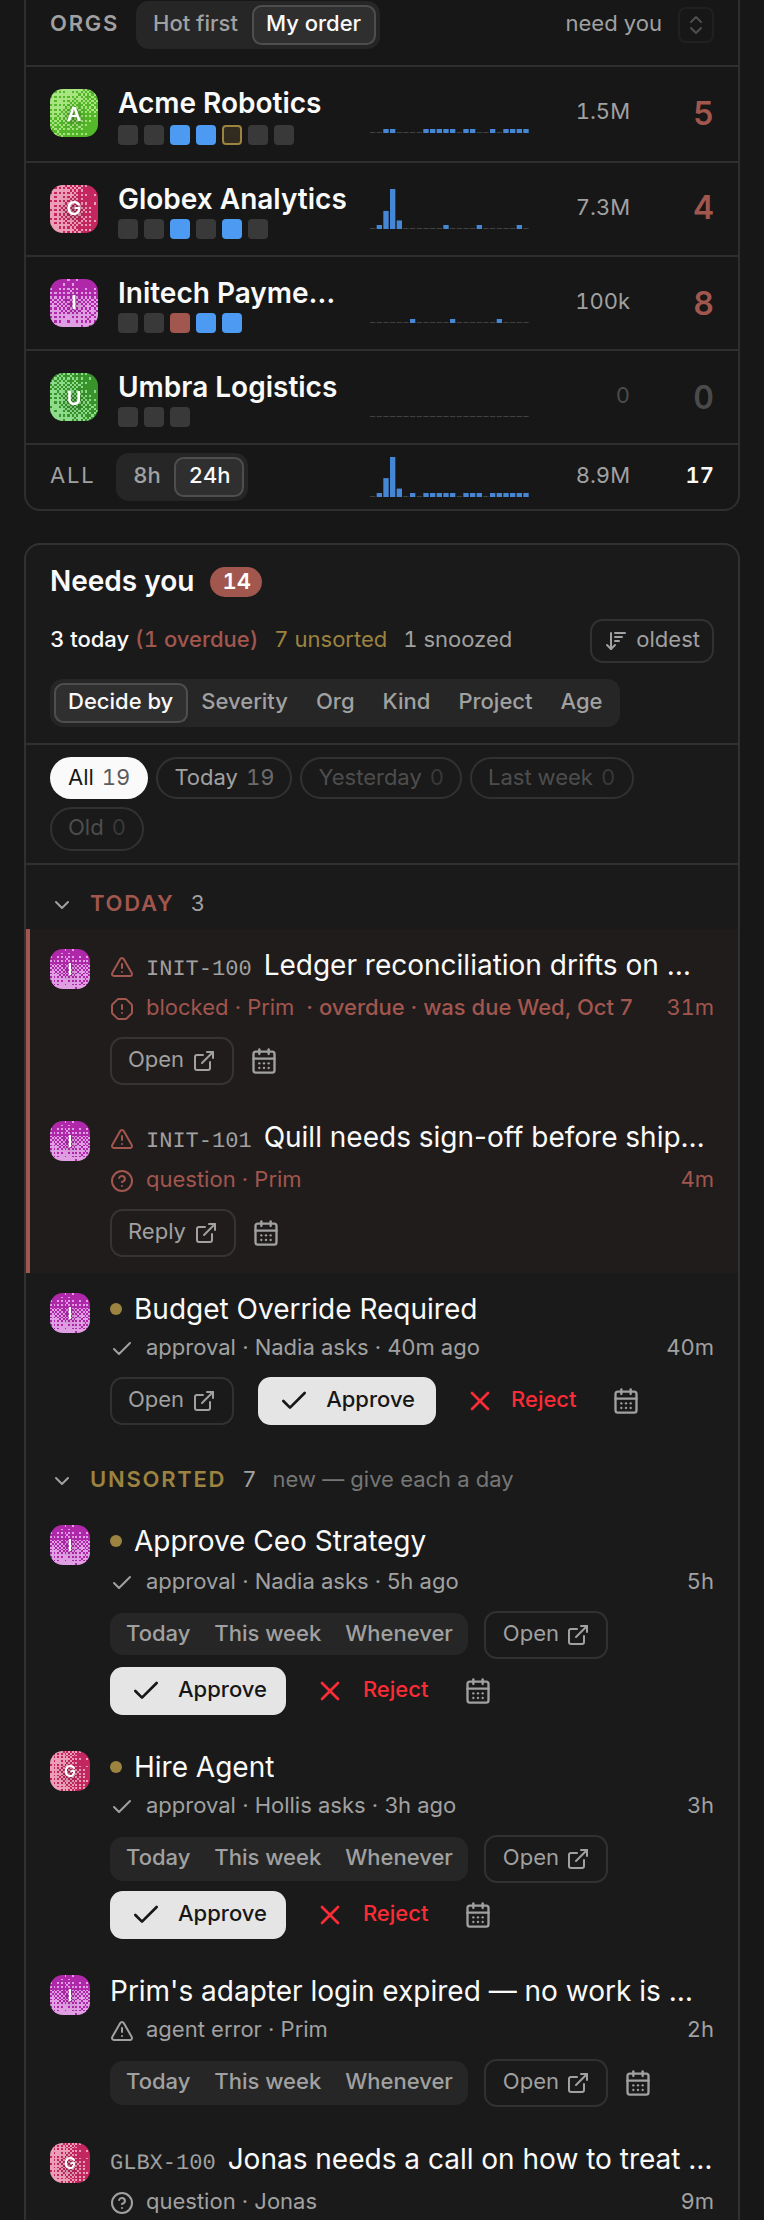
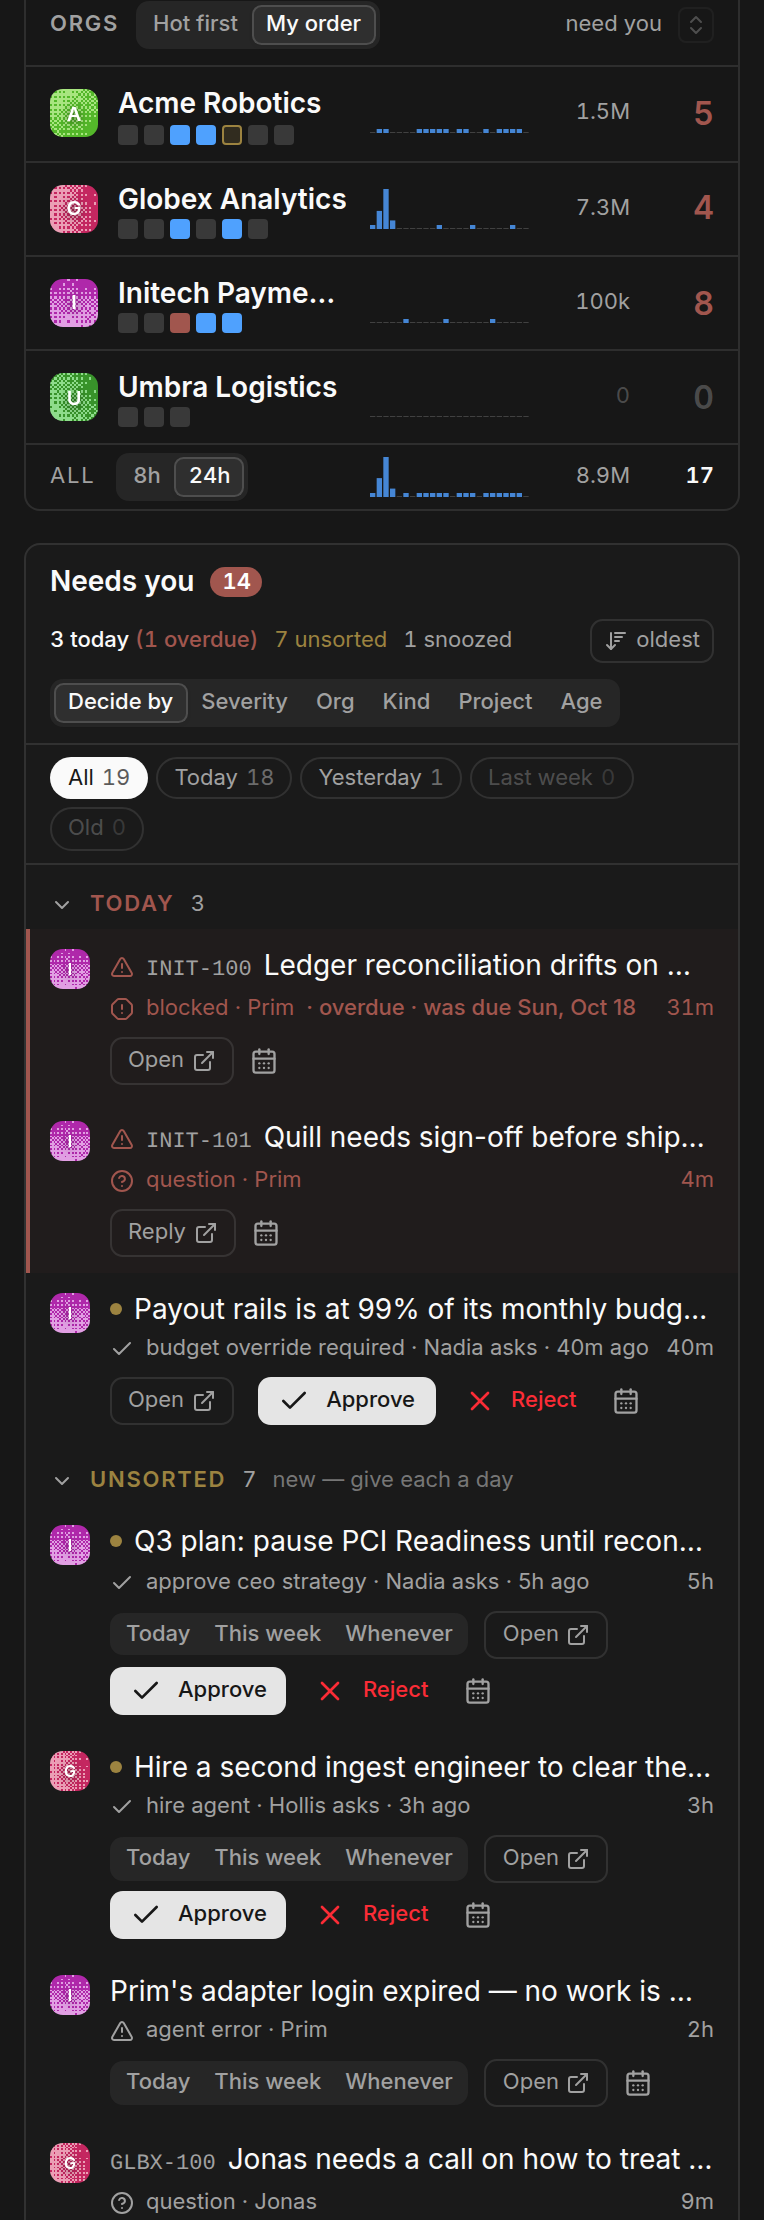
docs(readme): cover hiding orgs, paused orgs, task-titled approvals and the new question cards
README: the Orgs section now says archived and paused orgs are left out and
that an active org can be hidden from its hover card (#93).

docs/queue.md: approval rows are titled by their task with the type below
(#94); question cards show typed-answer boxes directly, tuck the note behind
"Add a note", and hold Send until the answers would be accepted (#92).

Regenerated in demo mode with scripts/capture-screenshots.mjs against a
throwaway local_trusted instance: hero, needs-you, tickler-page, phone,
company-detail, queue-by-decide, queue-triage-menu, queue-by-severity,
queue-by-company, queue-by-project, queue-actions.

Refs PLI-317

diff --git a/docs/queue.md b/docs/queue.md
@@ -119,9 +119,15 @@ company:
 
 <img src="screenshots/queue-question.png" alt="An agent's multiple-choice question, answered in place with an optional note" width="400">
 
-- **Approve / Reject** on an approval.
+- **Approve / Reject** on an approval. The row is titled by the task the
+  approval belongs to (or the request's own words, or "Hire <name>"), with the
+  approval's type on the small line underneath, so two pending approvals never
+  look alike.
 - **Answer** on a question, **Choose** on a confirmation — including structured
-  `ask_user_questions` responses, with each question's options in place.
+  `ask_user_questions` responses, with each question's options in place. A
+  question that wants typed text shows its box straight away, the optional note
+  sits behind **Add a note**, and **Send** stays off until the answers would be
+  accepted — the line beside it says which question still needs one.
 - **Open ↗** on anything, which takes you to the item in its own company.
 
 Clicking the excerpt under a headline expands the full prompt in place. For

diff --git a/README.md b/README.md
@@ -68,7 +68,9 @@ project or age — by project is how you find the one project quietly generating
 last 8 or 24 hours, and how much is waiting on you. Hover a name for everything else; hover a capacity square for which agent it is
 and what they are doing right now. Beneath it the rail stacks Recent, Portfolio and Routines, so
 the whole column is one scan: who's working, what just moved, what's stuck. Orgs and Recent each
-have an **Expand** toggle for when the short list isn't enough.
+have an **Expand** toggle for when the short list isn't enough. Archived and paused orgs are left
+out; to take an active one off the board too, **Hide** it from its hover card — Tickler stops
+asking for it, it keeps running in Paperclip, and **N hidden** in the header brings it back.
 
 <img src="https://raw.githubusercontent.com/nickallevato/paperclip-tickler/main/docs/screenshots/left-rail.png" alt="The left rail: the Orgs list with hourly token bars, then Recent, Portfolio and Routines" width="424">
 

diff --git a/CHANGELOG.md b/CHANGELOG.md
@@ -5,6 +5,11 @@ Short-form. The reader-facing write-up for each version is in
 
 ## Unreleased
 
+- **The docs catch up with 0.18.0–0.19.1.** The README now mentions hiding an
+  org and that paused orgs are left out; the queue guide covers approval rows
+  titled by their task and the new question cards; and the queue, org-card and
+  phone screenshots are regenerated to match. (PLI-317)
+
 ## 0.19.1
 
 - **An approval in the queue now says what it is for.** Its row used to be
